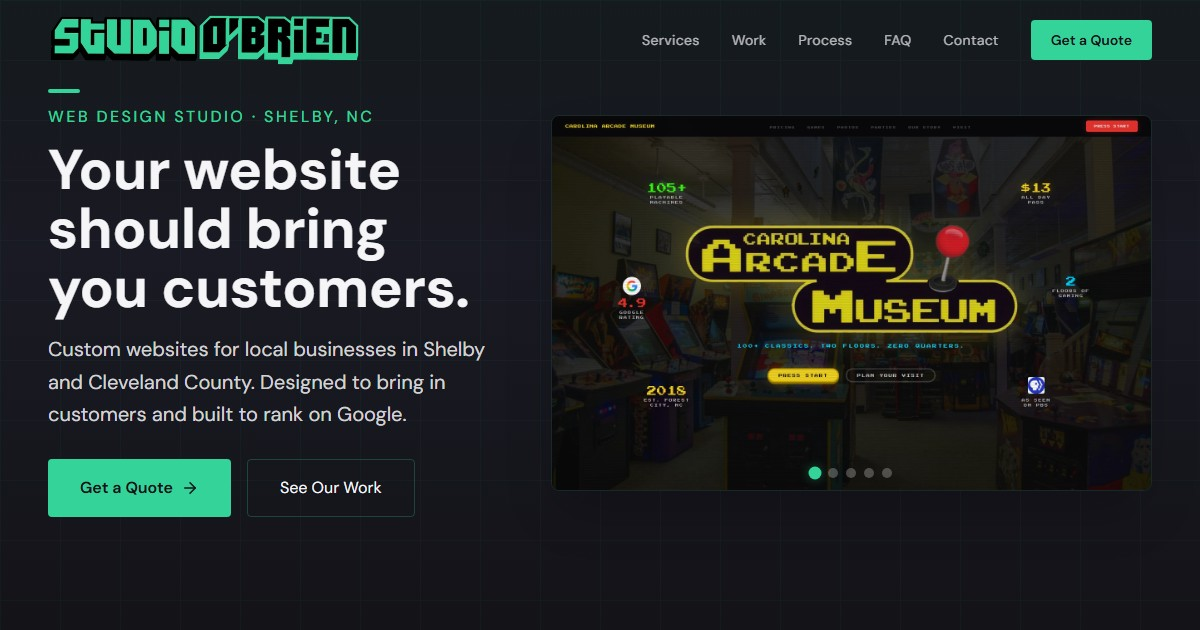
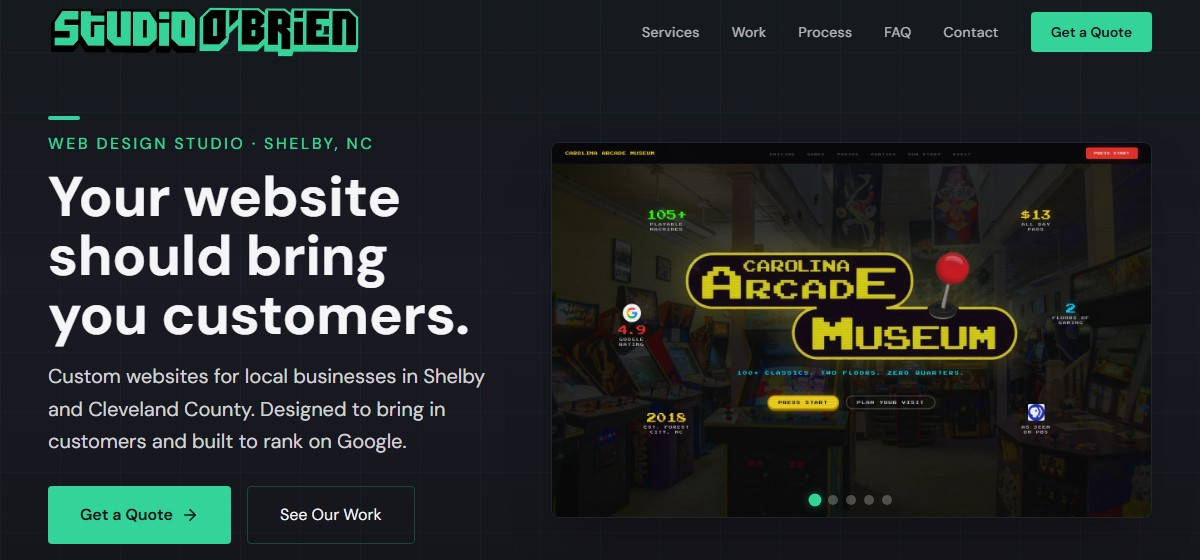
Remove proof bar, reorder sections for stronger narrative flow
Kill the proof bar (Search Ready / 90+ / Shelby NC) — it added friction
between the hero and problem section without earning its space. Move
Portfolio and Bridge CTA above Services so visitors see the work before
the comparison pitch. New flow: Hero → Problem/Fix → Portfolio →
Bridge CTA → Services → Process → About → FAQ → Contact.

Also updates OG preview image and renames it to bust Discord cache.

diff --git a/src/App.tsx b/src/App.tsx
@@ -1,13 +1,10 @@
 import { useState, useEffect, useRef } from "react";
 import {
-  Search,
-  BarChart3,
   ArrowRight,
   Check,
   ChevronDown,
   Menu,
   X,
-  Star,
 } from "lucide-react";
 
 /* ═══════════════════════════════════════════ *
@@ -221,7 +218,6 @@ export default function App() {
   const [scrolled, setScrolled] = useState(false);
   const [formData, setFormData] = useState({ name: "", email: "", business: "", message: "" });
   const [formSent, setFormSent] = useState(false);
-
   useEffect(() => {
     const h = () => setScrolled(window.scrollY > 40);
     window.addEventListener("scroll", h, { passive: true });
@@ -298,24 +294,6 @@ export default function App() {
         </div>
       </section>
 
-      {/* ═══════ PROOF BAR ═══════ */}
-      <section className="py-10 md:py-12 px-6" style={{ background: `linear-gradient(135deg, ${t.baseBg}, ${t.accent}12)`, borderTop: `1px solid ${t.accent}18`, borderBottom: `1px solid ${t.accent}18` }}>
-        <div className="max-w-5xl mx-auto grid grid-cols-1 md:grid-cols-3 gap-6">
-          {[
-            { icon: Search, num: "Search Ready", label: "Built for Google", sub: "Clean code, fast load times, meta tags, and mobile-first structure. Every site ships search-ready." },
-            { icon: BarChart3, num: "90+", label: "Google Lighthouse Score", sub: "Google's own speed test. Every site we build passes it. Visitors stay, rankings climb." },
-            { icon: Star, num: "Shelby, NC", label: "Cleveland County", sub: "Not a Charlotte agency. A local builder who knows your market." },
-          ].map((item) => (
-            <div key={item.label} className="flex flex-col items-center text-center py-5 px-3 rounded-lg" style={{ background: `${t.accent}08`, border: `1px solid ${t.accent}15` }}>
-              <item.icon size={24} color={t.accent} />
-              <span className="text-2xl md:text-3xl font-bold mt-2" style={{ color: t.accent }}>{item.num}</span>
-              <span className="text-xs uppercase tracking-[0.2em] mt-1 font-medium" style={{ color: `${t.hero.text}88` }}>{item.label}</span>
-              <span className="text-xs mt-2 leading-snug max-w-[220px]" style={{ color: `${t.hero.text}66` }}>{item.sub}</span>
-            </div>
-          ))}
-        </div>
-      </section>
-
       {/* ═══════ PROBLEM / FIX ═══════ */}
       <section className="py-16 md:py-24 px-6" style={{ background: t.problem.bg }}>
         <div className="max-w-5xl mx-auto grid grid-cols-1 md:grid-cols-2 gap-12">
@@ -337,45 +315,6 @@ export default function App() {
               <a href="/research/cleveland-county-digital-landscape.html#tourism-economy" className="underline decoration-1 underline-offset-2 hover:opacity-80 transition-opacity" style={{ color: t.accent }}>$149 million flows through Cleveland County tourism every year.</a> A fast, professional, Google-connected website puts your business in front of that traffic. Custom-built in Shelby, NC for the way people actually search.
             </p>
           </FadeIn>
-        </div>
-      </section>
-
-      {/* ═══════ SERVICES: COMPARISON ═══════ */}
-      <section id="services" className="py-20 md:py-28 px-6 relative" style={{ background: t.services.bg }}>
-        <div className="absolute inset-0 pointer-events-none" style={{ background: `radial-gradient(ellipse at 30% 20%, ${t.accent}04 0%, transparent 60%)` }} />
-        <div className="max-w-5xl mx-auto relative">
-          <FadeIn>
-            <p className="text-sm tracking-[0.15em] uppercase text-center mb-3 font-medium" style={{ color: t.accent }}>Why Us</p>
-            <h2 className="text-2xl md:text-4xl font-bold text-center mb-14 text-balance" style={{ color: t.services.text }}>{compData.heading}</h2>
-          </FadeIn>
-          <div className="grid grid-cols-1 md:grid-cols-2 gap-6 max-w-4xl mx-auto">
-            <FadeIn>
-              <div className="p-6 rounded-lg h-full" style={{ background: `${t.services.cardBg}`, border: `1px solid #ef444420` }}>
-                <p className="text-xs uppercase tracking-[0.2em] font-semibold mb-6" style={{ color: "#ef4444" }}>Most Agencies</p>
-                <div className="space-y-4">
-                  {compData.left.map((item, i) => (
-                    <div key={i} className="flex items-start gap-3">
-                      <X size={14} color="#ef4444" className="shrink-0 mt-1" />
-                      <p className="text-sm" style={{ color: `${t.services.text}77` }}>{item}</p>
-                    </div>
-                  ))}
-                </div>
-              </div>
-            </FadeIn>
-            <FadeIn delay={0.1}>
-              <div className="p-6 rounded-lg h-full" style={{ background: `${t.accent}08`, border: `1px solid ${t.accent}25` }}>
-                <p className="text-xs uppercase tracking-[0.2em] font-semibold mb-6" style={{ color: t.accent }}>Studio O'Brien</p>
-                <div className="space-y-4">
-                  {compData.right.map((item, i) => (
-                    <div key={i} className="flex items-start gap-3">
-                      <Check size={14} color={t.accent} className="shrink-0 mt-1" />
-                      <p className="text-sm" style={{ color: t.services.text }}>{item}</p>
-                    </div>
-                  ))}
-                </div>
-              </div>
-            </FadeIn>
-          </div>
         </div>
       </section>
 
@@ -451,6 +390,45 @@ export default function App() {
                     Get a Quote <ArrowRight size={18} />
                   </a>
                   <span className="text-xs" style={{ color: `${t.portfolio.text}55` }}>No commitment required</span>
+                </div>
+              </div>
+            </FadeIn>
+          </div>
+        </div>
+      </section>
+
+      {/* ═══════ SERVICES: COMPARISON ═══════ */}
+      <section id="services" className="py-20 md:py-28 px-6 relative" style={{ background: t.services.bg }}>
+        <div className="absolute inset-0 pointer-events-none" style={{ background: `radial-gradient(ellipse at 30% 20%, ${t.accent}04 0%, transparent 60%)` }} />
+        <div className="max-w-5xl mx-auto relative">
+          <FadeIn>
+            <p className="text-sm tracking-[0.15em] uppercase text-center mb-3 font-medium" style={{ color: t.accent }}>Why Us</p>
+            <h2 className="text-2xl md:text-4xl font-bold text-center mb-14 text-balance" style={{ color: t.services.text }}>{compData.heading}</h2>
+          </FadeIn>
+          <div className="grid grid-cols-1 md:grid-cols-2 gap-6 max-w-4xl mx-auto">
+            <FadeIn>
+              <div className="p-6 rounded-lg h-full" style={{ background: `${t.services.cardBg}`, border: `1px solid #ef444420` }}>
+                <p className="text-xs uppercase tracking-[0.2em] font-semibold mb-6" style={{ color: "#ef4444" }}>Most Agencies</p>
+                <div className="space-y-4">
+                  {compData.left.map((item, i) => (
+                    <div key={i} className="flex items-start gap-3">
+                      <X size={14} color="#ef4444" className="shrink-0 mt-1" />
+                      <p className="text-sm" style={{ color: `${t.services.text}77` }}>{item}</p>
+                    </div>
+                  ))}
+                </div>
+              </div>
+            </FadeIn>
+            <FadeIn delay={0.1}>
+              <div className="p-6 rounded-lg h-full" style={{ background: `${t.accent}08`, border: `1px solid ${t.accent}25` }}>
+                <p className="text-xs uppercase tracking-[0.2em] font-semibold mb-6" style={{ color: t.accent }}>Studio O'Brien</p>
+                <div className="space-y-4">
+                  {compData.right.map((item, i) => (
+                    <div key={i} className="flex items-start gap-3">
+                      <Check size={14} color={t.accent} className="shrink-0 mt-1" />
+                      <p className="text-sm" style={{ color: t.services.text }}>{item}</p>
+                    </div>
+                  ))}
                 </div>
               </div>
             </FadeIn>

diff --git a/index.html b/index.html
@@ -22,6 +22,10 @@
   <link rel="manifest" href="/manifest.json">
   <!-- Preload critical font -->
   <link rel="preload" href="/fonts/dm-sans-400.woff2" as="font" type="font/woff2" crossorigin>
+  <!-- Variant fonts (only fetched when used) -->
+  <link rel="preconnect" href="https://fonts.googleapis.com">
+  <link rel="preconnect" href="https://fonts.gstatic.com" crossorigin>
+  <link href="https://fonts.googleapis.com/css2?family=Space+Grotesk:wght@400;500;600;700&family=Plus+Jakarta+Sans:wght@400;500;600;700&family=Outfit:wght@400;500;600;700&display=swap" rel="stylesheet">
   <!-- Preload LCP image -->
   <link rel="preload" href="/images/logo-obsidian.webp" as="image" type="image/webp" fetchpriority="high">
   <style>
